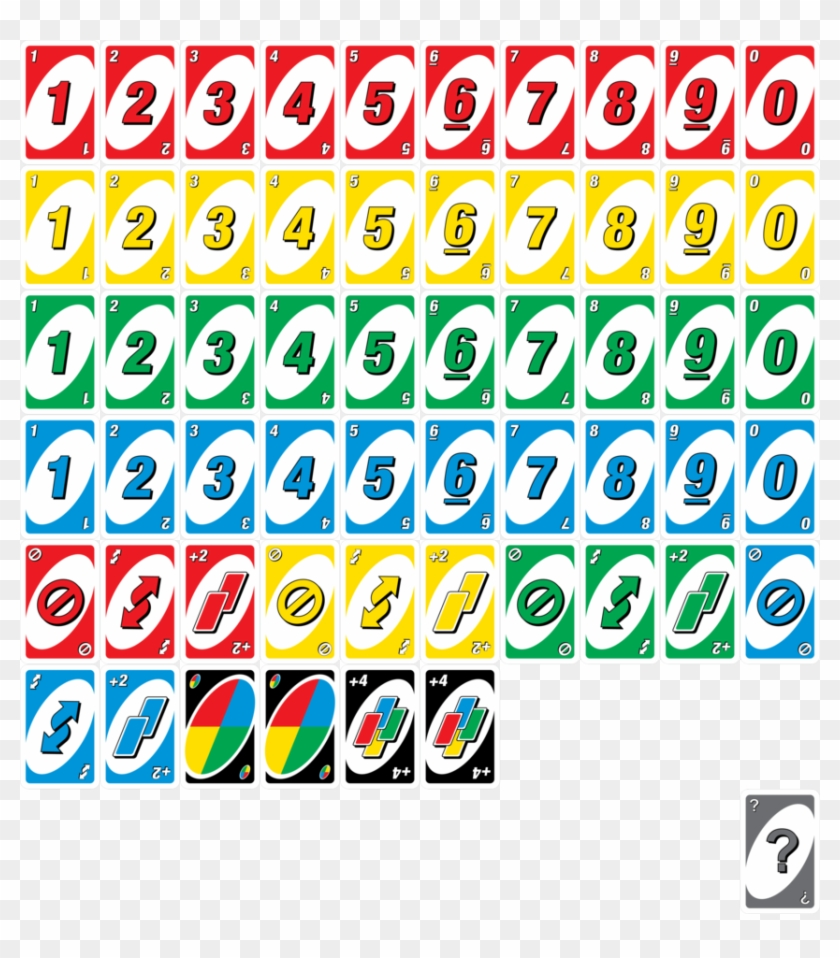
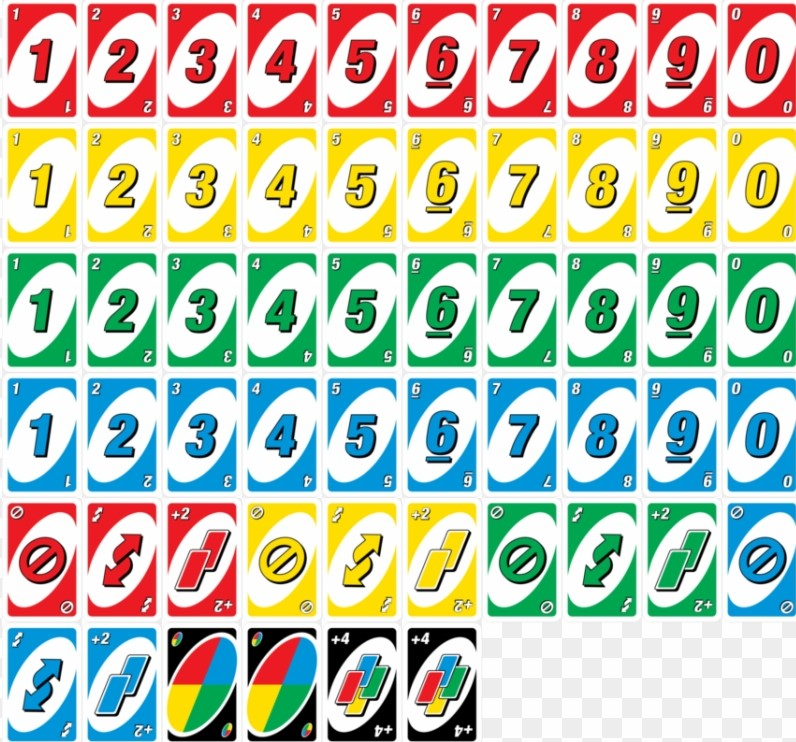
configpic fertig

diff --git a/UNOdostres/src/ch/bzz/it/unodostres/controller/ConfigurePic.java b/UNOdostres/src/ch/bzz/it/unodostres/controller/ConfigurePic.java
@@ -17,10 +17,10 @@ public class ConfigurePic {
 			System.out.println(url);
 			BufferedImage bigImg = ImageIO.read(url);
 
-			final int width = 32;
-			final int height = 46;
-			final int cols = 5;
-			final int rows = 10;
+			final int width = 79;
+			final int height = 123;
+			final int cols = 10;
+			final int rows = 6;
 			
 			BufferedImage[] sprites = new BufferedImage[rows * cols];
 
@@ -35,7 +35,7 @@ public class ConfigurePic {
 				@Override
 	            protected void paintComponent(Graphics g) {
 	                super.paintComponent(g);
-	                g.drawImage(sprites[32], 0, 0, null);
+	                g.drawImage(sprites[53], 0, 0, null);
 	            }
 			};
 			f.add(p);
